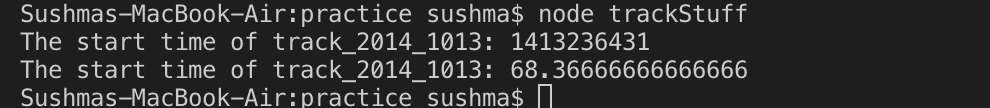
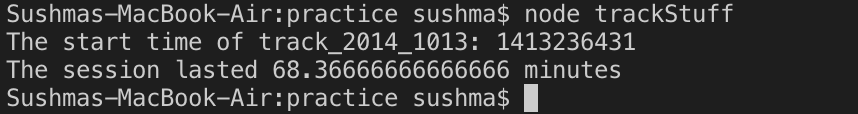
point update

Changed region(s): [[0.0, 0.2778, 0.7576, 1.0], [0.0, 0.0278, 0.8788, 0.25]]

diff --git a/practice/trackStuff.js b/practice/trackStuff.js
@@ -10,7 +10,7 @@ rp(options)
     .then(function (res) {
         debugger;
         console.log(`The start time of track_2014_1013: ${res.start_time}` );
-        console.log(`The start time of track_2014_1013: ${(res.points.length)/60}` );
+        console.log(`The session lasted ${(res.points.length)/60} minutes` );
 
     });
 

diff --git a/README.md b/README.md
@@ -121,9 +121,10 @@ rp(options)
     .then(function (res) {
         debugger;
         console.log(`The start time of track_2014_1013: ${res.start_time}` );
-        console.log(`The start time of track_2014_1013: ${(res.points.length)/60}` );
+        console.log(`The session lasted ${(res.points.length)/60} minutes` );
 
     });
+
 ```
 
 
